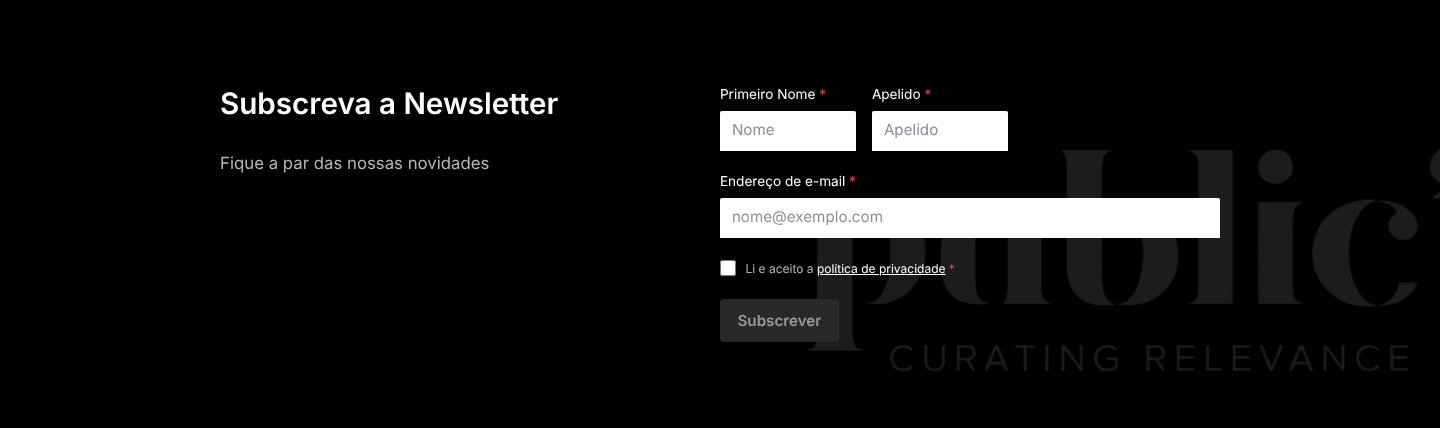
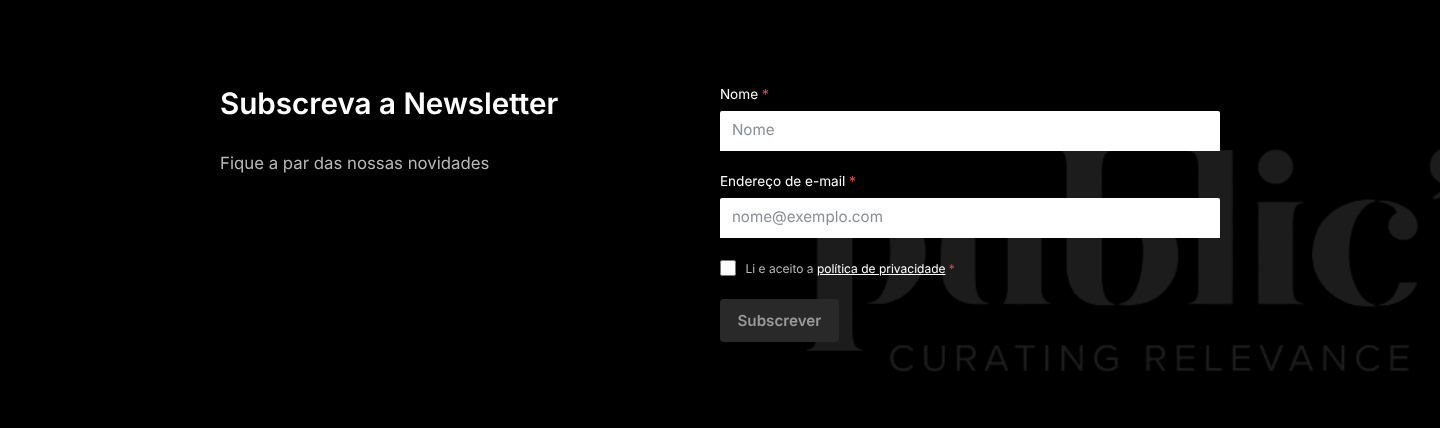
Newsletter plugin: drop last name field
The form now asks only for name and email. Last name is removed from the
form, validation, DB schema, CSV export and Brevo/Mailchimp sync.

Claude-Session: https://claude.ai/code/session_01BJmFsuiF9YXphWkEEjsahC

Changed region(s): [[0.6875, 0.243, 0.875, 0.3645], [0.5938, 0.2126, 0.6562, 0.3645], [0.5, 0.2126, 0.5625, 0.243]]

diff --git a/wordpress/newsletter-fim-de-pagina/assets/newsletter.css b/wordpress/newsletter-fim-de-pagina/assets/newsletter.css
@@ -91,20 +91,10 @@ body.nlfp-has-band {
 	margin: 0;
 }
 
-.nlfp__row {
-	display: flex;
-	flex-wrap: wrap;
-	gap: 1rem;
-}
-
 .nlfp__field {
 	display: flex;
 	flex-direction: column;
 	gap: 0.5rem;
-	width: 8.5rem;
-}
-
-.nlfp__field--email {
 	width: 100%;
 }
 
@@ -224,15 +214,6 @@ body.nlfp-has-band {
 
 	.nlfp__title {
 		margin-bottom: 1rem;
-	}
-
-	.nlfp__row {
-		width: 100%;
-	}
-
-	.nlfp__row .nlfp__field {
-		flex: 1 1 8rem;
-		width: auto;
 	}
 
 	.nlfp__watermark {

diff --git a/wordpress/newsletter-fim-de-pagina/includes/form.php b/wordpress/newsletter-fim-de-pagina/includes/form.php
@@ -16,7 +16,7 @@ function nlfp_messages() {
 	return array(
 		'ok'      => $s['success'],
 		'exists'  => 'Este e-mail já está subscrito. Obrigado!',
-		'invalid' => 'Preencha o nome, o apelido e um e-mail válido.',
+		'invalid' => 'Preencha o nome e um e-mail válido.',
 		'consent' => 'Tem de aceitar a política de privacidade.',
 		'rate'    => 'Demasiadas tentativas. Tente novamente daqui a uns minutos.',
 		'error'   => 'Ocorreu um erro. Tente novamente.',
@@ -121,18 +121,12 @@ function nlfp_render_form() {
 					<label>Website <input type="text" name="nlfp_website" tabindex="-1" autocomplete="off"></label>
 				</div>
 
-				<div class="nlfp__row">
-					<div class="nlfp__field">
-						<label for="<?php echo esc_attr( $uid ); ?>-first">Primeiro Nome <span class="nlfp__req">*</span></label>
-						<input id="<?php echo esc_attr( $uid ); ?>-first" type="text" name="nlfp_first_name" placeholder="Nome" autocomplete="given-name" maxlength="100" required>
-					</div>
-					<div class="nlfp__field">
-						<label for="<?php echo esc_attr( $uid ); ?>-last">Apelido <span class="nlfp__req">*</span></label>
-						<input id="<?php echo esc_attr( $uid ); ?>-last" type="text" name="nlfp_last_name" placeholder="Apelido" autocomplete="family-name" maxlength="100" required>
-					</div>
+				<div class="nlfp__field">
+					<label for="<?php echo esc_attr( $uid ); ?>-name">Nome <span class="nlfp__req">*</span></label>
+					<input id="<?php echo esc_attr( $uid ); ?>-name" type="text" name="nlfp_first_name" placeholder="Nome" autocomplete="name" maxlength="100" required>
 				</div>
 
-				<div class="nlfp__field nlfp__field--email">
+				<div class="nlfp__field">
 					<label for="<?php echo esc_attr( $uid ); ?>-email">Endereço de e-mail <span class="nlfp__req">*</span></label>
 					<input id="<?php echo esc_attr( $uid ); ?>-email" type="email" name="nlfp_email" placeholder="nome@exemplo.com" autocomplete="email" maxlength="190" required>
 				</div>
@@ -165,9 +159,8 @@ function nlfp_process_subscription( array $data ) {
 
 	$email      = sanitize_email( $data['nlfp_email'] ?? '' );
 	$first_name = sanitize_text_field( $data['nlfp_first_name'] ?? '' );
-	$last_name  = sanitize_text_field( $data['nlfp_last_name'] ?? '' );
 
-	if ( ! is_email( $email ) || '' === $first_name || '' === $last_name ) {
+	if ( ! is_email( $email ) || '' === $first_name ) {
 		return 'invalid';
 	}
 	if ( empty( $data['nlfp_consent'] ) ) {
@@ -184,7 +177,7 @@ function nlfp_process_subscription( array $data ) {
 	set_transient( $rate_key, $attempts + 1, 10 * MINUTE_IN_SECONDS );
 
 	$source = esc_url_raw( $data['nlfp_source'] ?? '' );
-	$id     = nlfp_add_subscriber( strtolower( $email ), $first_name, $last_name, $source );
+	$id     = nlfp_add_subscriber( strtolower( $email ), $first_name, $source );
 
 	if ( 'exists' === $id ) {
 		return 'exists';
@@ -193,7 +186,7 @@ function nlfp_process_subscription( array $data ) {
 		return 'error';
 	}
 
-	$synced = nlfp_sync_to_provider( $email, $first_name, $last_name, nlfp_settings() );
+	$synced = nlfp_sync_to_provider( $email, $first_name, nlfp_settings() );
 	if ( is_wp_error( $synced ) ) {
 		// O subscritor fica guardado no WordPress; o erro aparece na lista de subscritores.
 		error_log( '[Newsletter no Fim da Página] ' . $synced->get_error_message() );

diff --git a/wordpress/newsletter-fim-de-pagina/includes/providers.php b/wordpress/newsletter-fim-de-pagina/includes/providers.php
@@ -6,18 +6,18 @@ defined( 'ABSPATH' ) || exit;
  *
  * @return true|WP_Error
  */
-function nlfp_sync_to_provider( $email, $first_name, $last_name, $settings ) {
+function nlfp_sync_to_provider( $email, $first_name, $settings ) {
 	switch ( $settings['provider'] ) {
 		case 'brevo':
-			return nlfp_sync_brevo( $email, $first_name, $last_name, $settings );
+			return nlfp_sync_brevo( $email, $first_name, $settings );
 		case 'mailchimp':
-			return nlfp_sync_mailchimp( $email, $first_name, $last_name, $settings );
+			return nlfp_sync_mailchimp( $email, $first_name, $settings );
 		default:
 			return true;
 	}
 }
 
-function nlfp_sync_brevo( $email, $first_name, $last_name, $settings ) {
+function nlfp_sync_brevo( $email, $first_name, $settings ) {
 	if ( ! $settings['brevo_api_key'] || ! $settings['brevo_list_id'] ) {
 		return new WP_Error( 'nlfp_config', 'Brevo: falta a API key ou o ID da lista.' );
 	}
@@ -34,7 +34,7 @@ function nlfp_sync_brevo( $email, $first_name, $last_name, $settings ) {
 			'body'    => wp_json_encode(
 				array(
 					'email'         => $email,
-					'attributes'    => array( 'FIRSTNAME' => $first_name, 'LASTNAME' => $last_name ),
+					'attributes'    => array( 'FIRSTNAME' => $first_name ),
 					'listIds'       => array( (int) $settings['brevo_list_id'] ),
 					'updateEnabled' => true,
 				)
@@ -45,7 +45,7 @@ function nlfp_sync_brevo( $email, $first_name, $last_name, $settings ) {
 	return nlfp_check_response( $response, 'Brevo' );
 }
 
-function nlfp_sync_mailchimp( $email, $first_name, $last_name, $settings ) {
+function nlfp_sync_mailchimp( $email, $first_name, $settings ) {
 	$key  = $settings['mailchimp_api_key'];
 	$list = $settings['mailchimp_audience_id'];
 	if ( ! $key || ! $list || false === strpos( $key, '-' ) ) {
@@ -69,7 +69,7 @@ function nlfp_sync_mailchimp( $email, $first_name, $last_name, $settings ) {
 				array(
 					'email_address' => $email,
 					'status_if_new' => $settings['mailchimp_double_optin'] ? 'pending' : 'subscribed',
-					'merge_fields'  => array( 'FNAME' => $first_name, 'LNAME' => $last_name ),
+					'merge_fields'  => array( 'FNAME' => $first_name ),
 				)
 			),
 		)

diff --git a/wordpress/newsletter-fim-de-pagina/includes/admin.php b/wordpress/newsletter-fim-de-pagina/includes/admin.php
@@ -224,7 +224,7 @@ function nlfp_subscribers_page() {
 			<?php endif; ?>
 			<?php foreach ( $rows as $row ) : ?>
 				<tr>
-					<td><?php echo esc_html( trim( $row->first_name . ' ' . $row->last_name ) ); ?></td>
+					<td><?php echo esc_html( $row->first_name ); ?></td>
 					<td><?php echo esc_html( $row->email ); ?></td>
 					<td><?php echo $row->source_url ? '<a href="' . esc_url( $row->source_url ) . '" target="_blank" rel="noopener">' . esc_html( wp_parse_url( $row->source_url, PHP_URL_PATH ) ?: '/' ) . '</a>' : '—'; ?></td>
 					<td><?php echo 'erro' === $row->sync_status ? '<span style="color:#b32d2e">Erro (ver logs)</span>' : esc_html( ucfirst( $row->sync_status ) ); ?></td>
@@ -252,7 +252,7 @@ function nlfp_export_csv() {
 		wp_die( 'Sem permissão.' );
 	}
 	global $wpdb;
-	$rows = $wpdb->get_results( 'SELECT first_name, last_name, email, source_url, sync_status, created_at FROM ' . nlfp_table() . ' ORDER BY created_at DESC', ARRAY_A );
+	$rows = $wpdb->get_results( 'SELECT first_name, email, source_url, sync_status, created_at FROM ' . nlfp_table() . ' ORDER BY created_at DESC', ARRAY_A );
 
 	nocache_headers();
 	header( 'Content-Type: text/csv; charset=utf-8' );
@@ -260,7 +260,7 @@ function nlfp_export_csv() {
 
 	$out = fopen( 'php://output', 'w' );
 	fwrite( $out, "\xEF\xBB\xBF" ); // BOM para o Excel abrir os acentos corretamente.
-	fputcsv( $out, array( 'Primeiro Nome', 'Apelido', 'Email', 'Página de origem', 'Sincronização', 'Data' ), ';' );
+	fputcsv( $out, array( 'Nome', 'Email', 'Página de origem', 'Sincronização', 'Data' ), ';' );
 	foreach ( $rows as $row ) {
 		// Evita injeção de fórmulas ao abrir no Excel.
 		$row = array_map(

diff --git a/wordpress/newsletter-fim-de-pagina/includes/subscribers.php b/wordpress/newsletter-fim-de-pagina/includes/subscribers.php
@@ -18,7 +18,6 @@ function nlfp_create_table() {
 			id bigint(20) unsigned NOT NULL AUTO_INCREMENT,
 			email varchar(190) NOT NULL,
 			first_name varchar(100) NOT NULL DEFAULT '',
-			last_name varchar(100) NOT NULL DEFAULT '',
 			source_url varchar(255) NOT NULL DEFAULT '',
 			sync_status varchar(20) NOT NULL DEFAULT 'local',
 			created_at datetime NOT NULL,
@@ -33,7 +32,7 @@ function nlfp_create_table() {
 /**
  * @return int|string|false ID do novo subscritor, 'exists' se o email já existir, false em erro.
  */
-function nlfp_add_subscriber( $email, $first_name, $last_name, $source_url ) {
+function nlfp_add_subscriber( $email, $first_name, $source_url ) {
 	global $wpdb;
 
 	$exists = $wpdb->get_var( $wpdb->prepare( 'SELECT id FROM ' . nlfp_table() . ' WHERE email = %s', $email ) );
@@ -46,7 +45,6 @@ function nlfp_add_subscriber( $email, $first_name, $last_name, $source_url ) {
 		array(
 			'email'      => $email,
 			'first_name' => $first_name,
-			'last_name'  => $last_name,
 			'source_url' => $source_url,
 			'created_at' => current_time( 'mysql' ),
 		)
